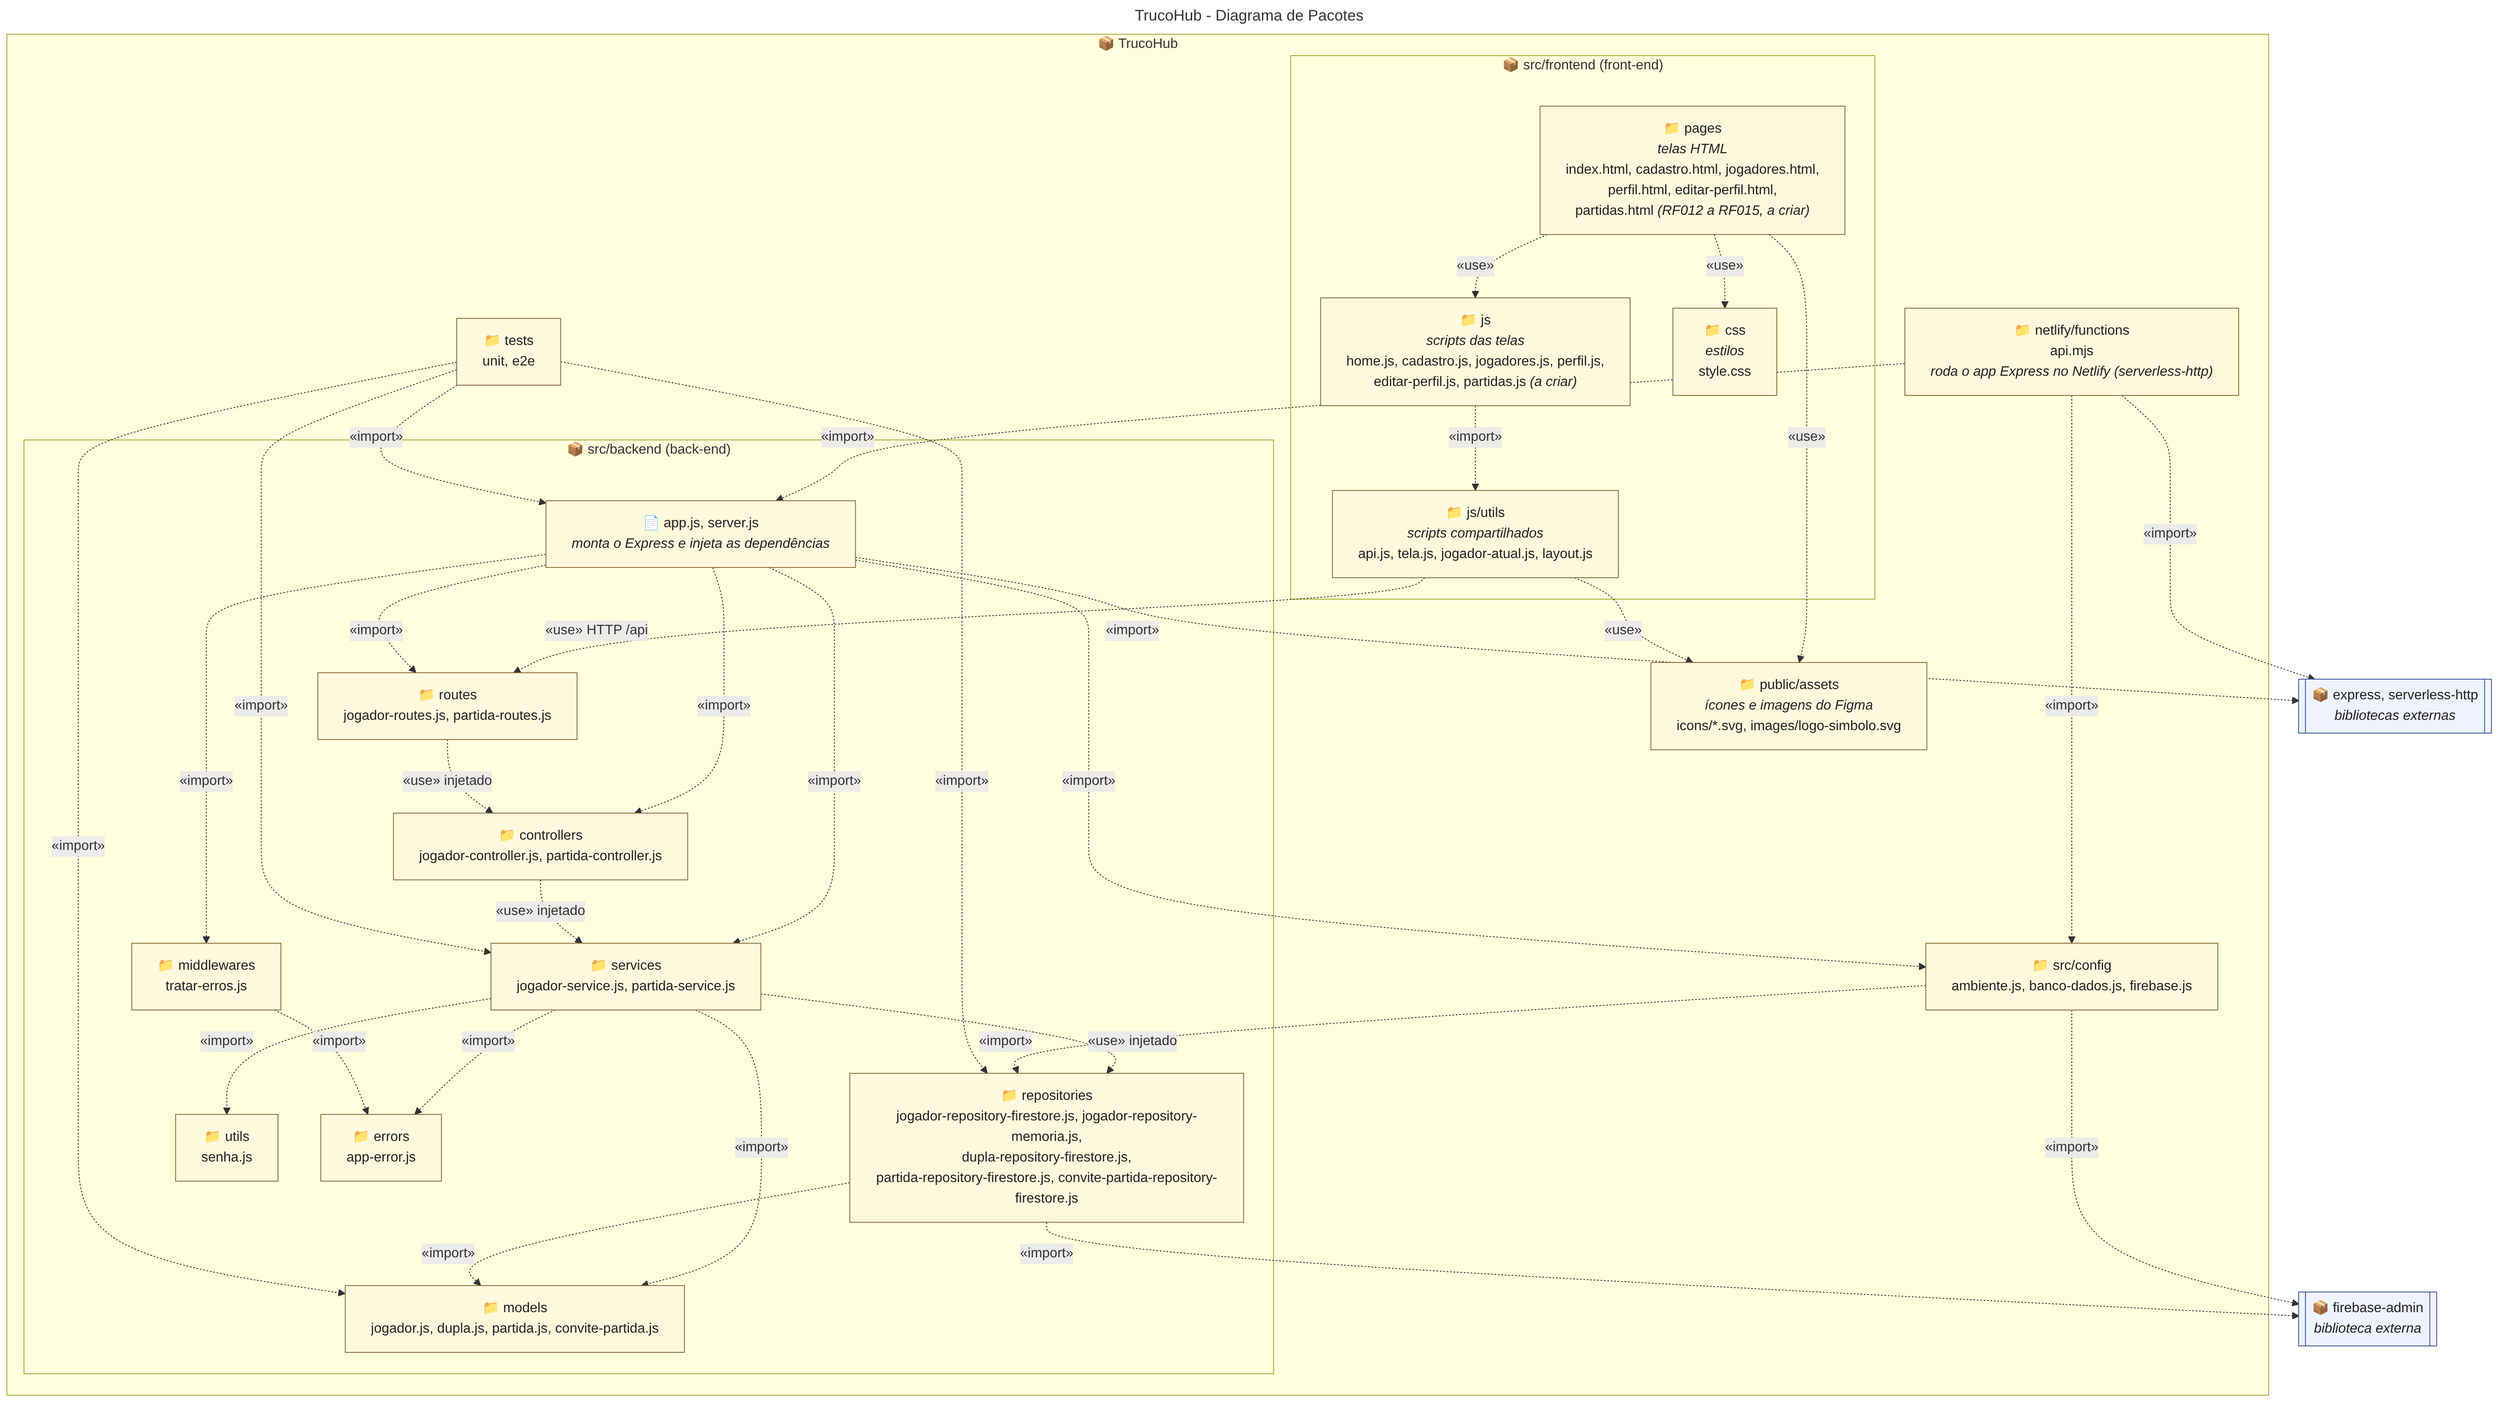
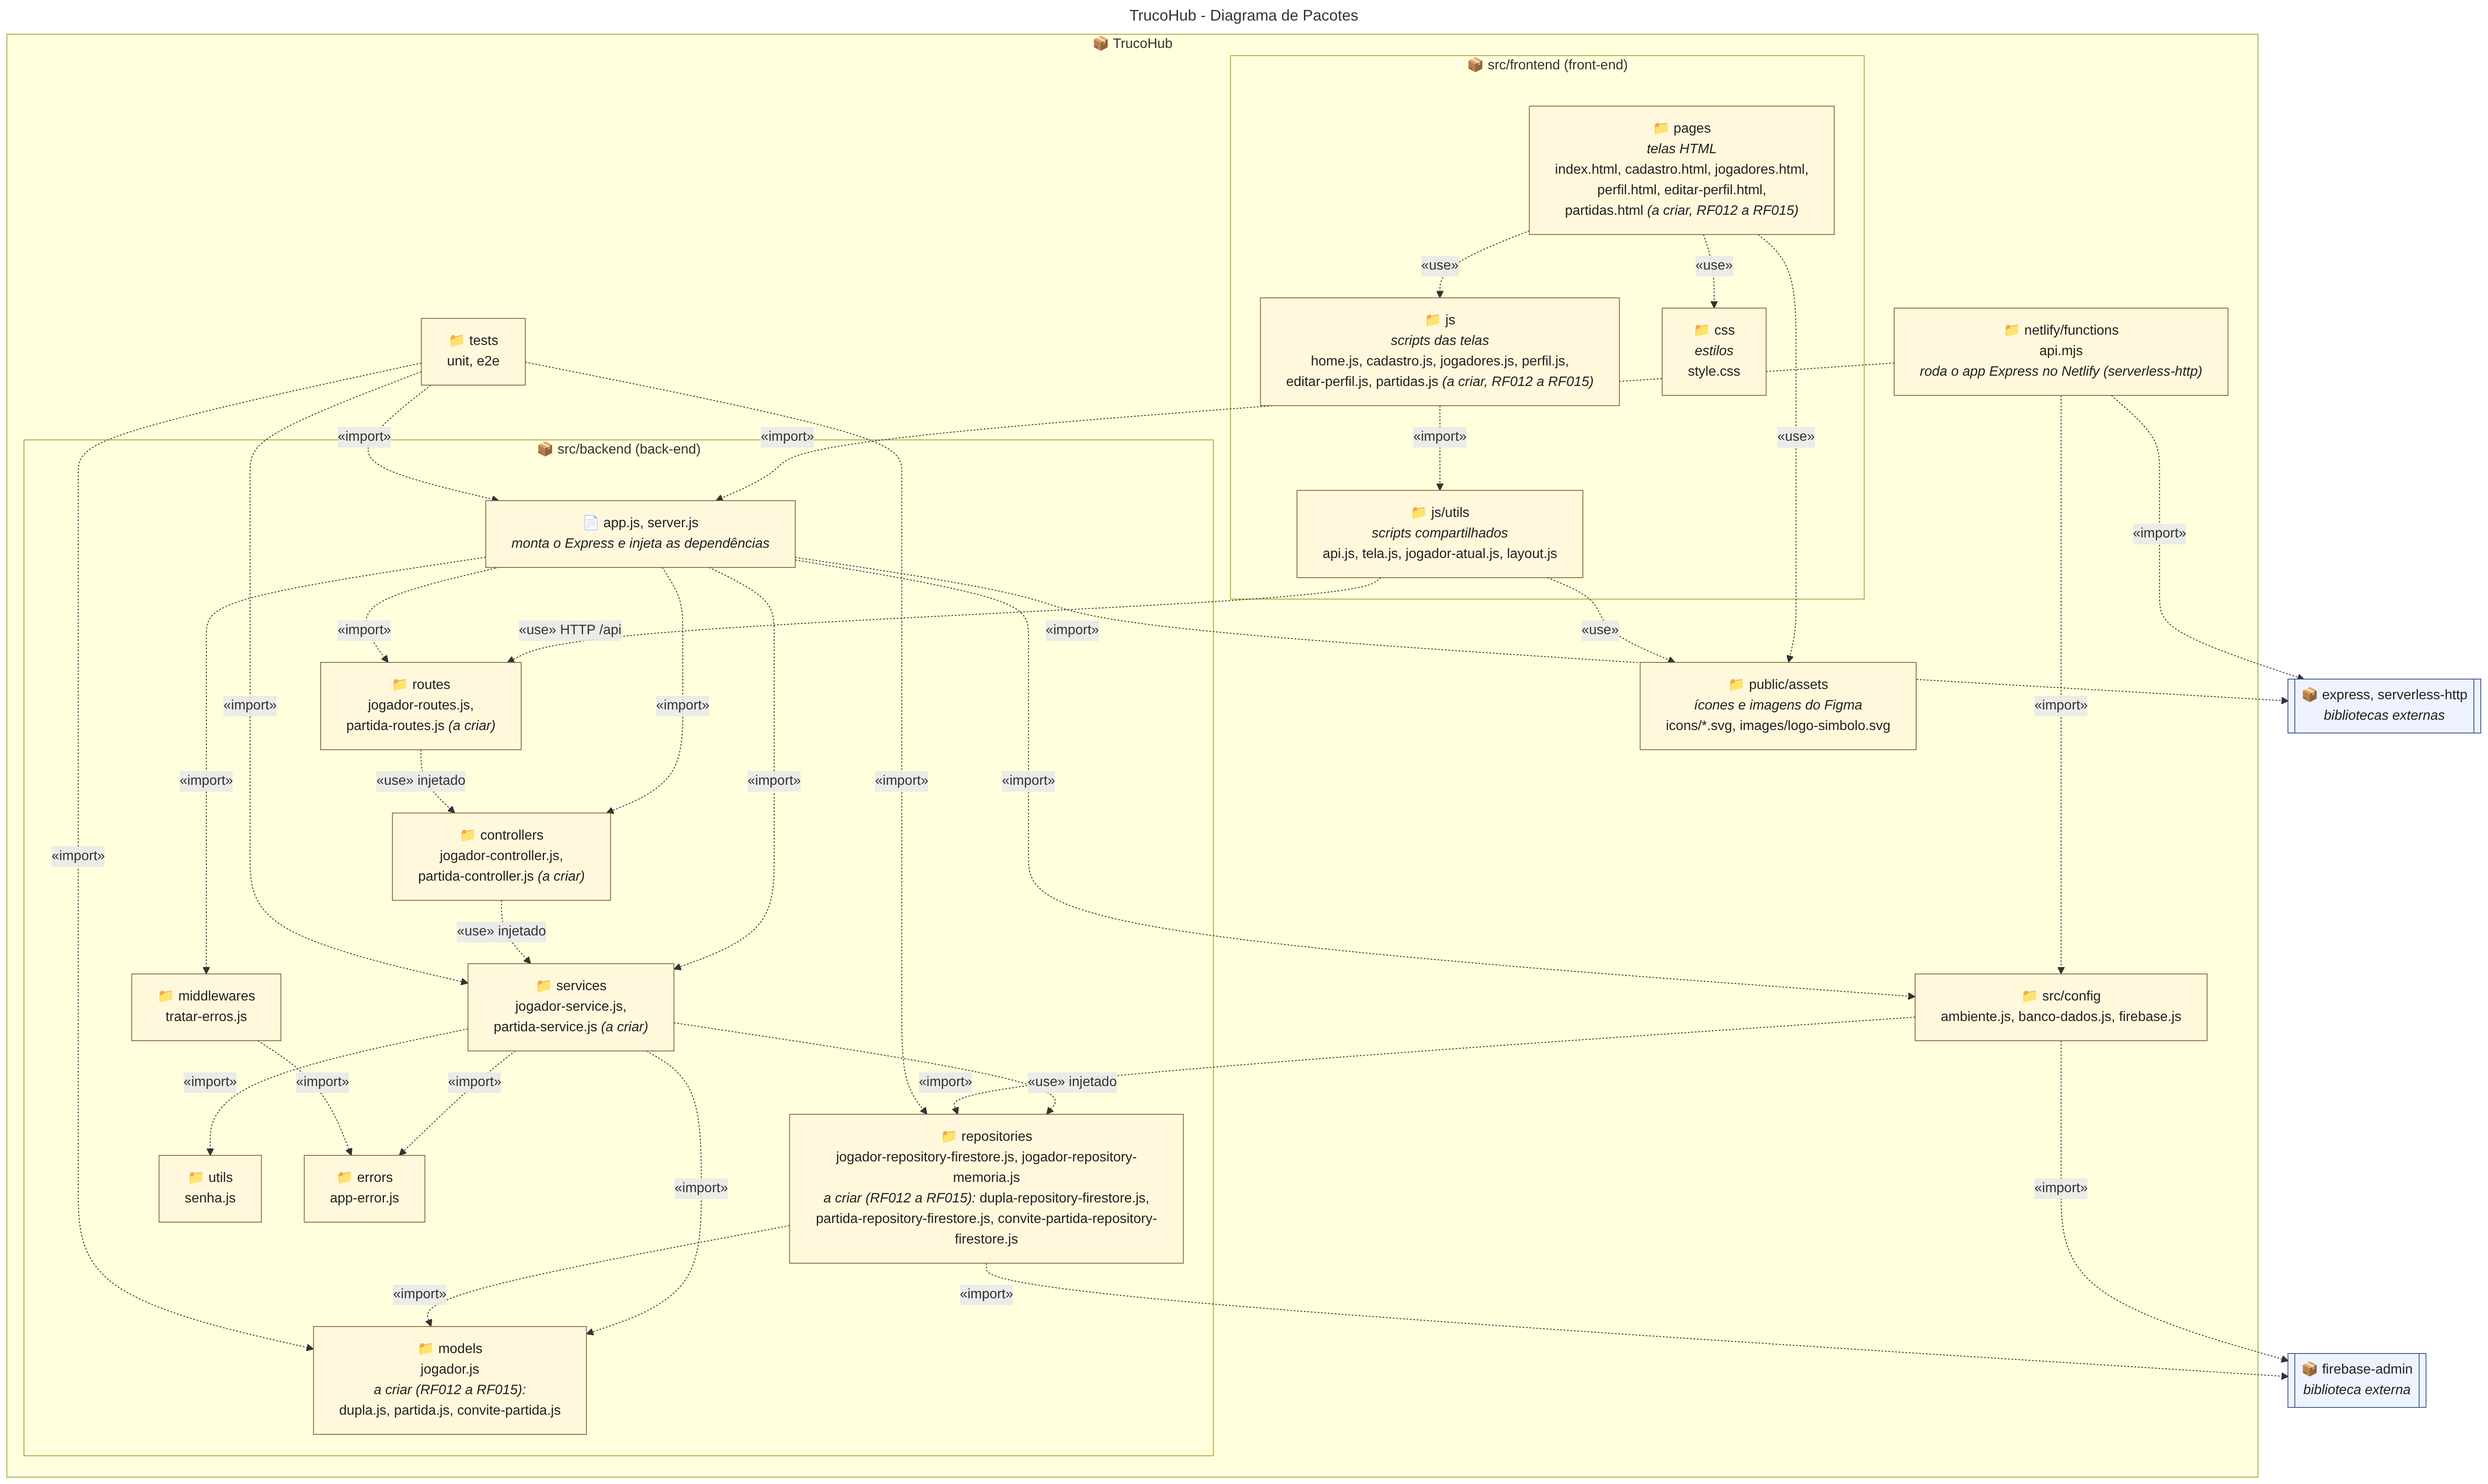
docs(diagramas): marca os arquivos de partida ainda não criados
No diagrama de pacotes, os arquivos de Partida, Dupla e Convite do
back-end aparecem como "a criar" (RF012 a RF015), como no front-end.

diff --git a/docs/diagramas/README.md b/docs/diagramas/README.md
@@ -200,8 +200,8 @@ flowchart TB
         direction TB
         subgraph FRONT["📦 src/frontend  (front-end)"]
             direction LR
-            PAGES["📁 pages<br/><i>telas HTML</i><br/>index.html, cadastro.html, jogadores.html,<br/>perfil.html, editar-perfil.html,<br/>partidas.html <i>(RF012 a RF015, a criar)</i>"]
-            JS["📁 js<br/><i>scripts das telas</i><br/>home.js, cadastro.js, jogadores.js, perfil.js,<br/>editar-perfil.js, partidas.js <i>(a criar)</i>"]
+            PAGES["📁 pages<br/><i>telas HTML</i><br/>index.html, cadastro.html, jogadores.html,<br/>perfil.html, editar-perfil.html,<br/>partidas.html <i>(a criar, RF012 a RF015)</i>"]
+            JS["📁 js<br/><i>scripts das telas</i><br/>home.js, cadastro.js, jogadores.js, perfil.js,<br/>editar-perfil.js, partidas.js <i>(a criar, RF012 a RF015)</i>"]
             JSUTILS["📁 js/utils<br/><i>scripts compartilhados</i><br/>api.js, tela.js, jogador-atual.js, layout.js"]
             CSS["📁 css<br/><i>estilos</i><br/>style.css"]
         end
@@ -210,11 +210,11 @@ flowchart TB
         subgraph BACK["📦 src/backend  (back-end)"]
             direction TB
             APP["📄 app.js, server.js<br/><i>monta o Express e injeta as dependências</i>"]
-            ROUTES["📁 routes<br/>jogador-routes.js, partida-routes.js"]
-            CTRL["📁 controllers<br/>jogador-controller.js, partida-controller.js"]
-            SERV["📁 services<br/>jogador-service.js, partida-service.js"]
-            REPO["📁 repositories<br/>jogador-repository-firestore.js, jogador-repository-memoria.js,<br/>dupla-repository-firestore.js,<br/>partida-repository-firestore.js, convite-partida-repository-firestore.js"]
-            MODELS["📁 models<br/>jogador.js, dupla.js, partida.js, convite-partida.js"]
+            ROUTES["📁 routes<br/>jogador-routes.js,<br/>partida-routes.js <i>(a criar)</i>"]
+            CTRL["📁 controllers<br/>jogador-controller.js,<br/>partida-controller.js <i>(a criar)</i>"]
+            SERV["📁 services<br/>jogador-service.js,<br/>partida-service.js <i>(a criar)</i>"]
+            REPO["📁 repositories<br/>jogador-repository-firestore.js, jogador-repository-memoria.js<br/><i>a criar (RF012 a RF015):</i> dupla-repository-firestore.js,<br/>partida-repository-firestore.js, convite-partida-repository-firestore.js"]
+            MODELS["📁 models<br/>jogador.js<br/><i>a criar (RF012 a RF015):</i><br/>dupla.js, partida.js, convite-partida.js"]
             UTILS["📁 utils<br/>senha.js"]
             MIDDLE["📁 middlewares<br/>tratar-erros.js"]
             ERRORS["📁 errors<br/>app-error.js"]
